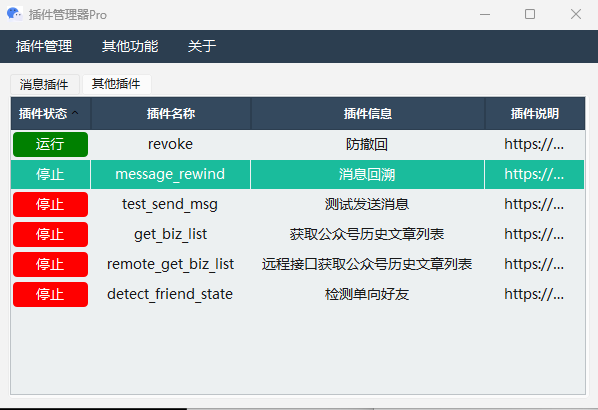
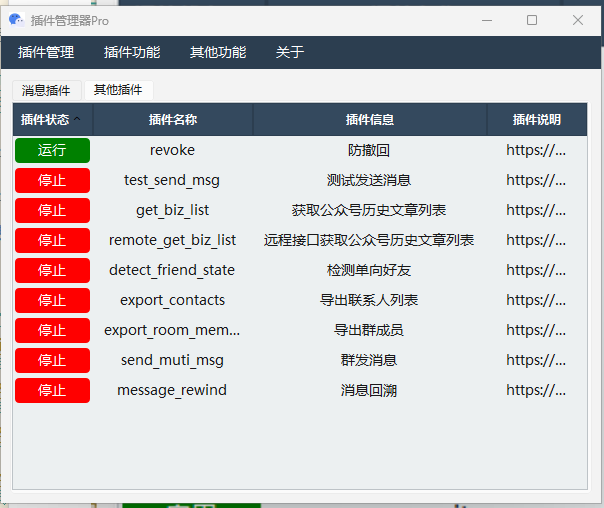
更新README

diff --git a/README.md b/README.md
@@ -1,6 +1,8 @@
 ## 项目介绍
 
-这个是之前pywxrobot的更新维护版(目前已有的插件都是免费使用，未来某些新增的插件可能会收费)，不再使用aardio，而是使用pyside6做界面，可以更好的加载python脚本。
+这个是之前pywxrobot的更新维护版(目前有两个版本：免费版和pro版,区别只是插件不一样)，不再使用aardio，而是使用pyside6做界面，可以更好的加载python脚本。
+
+如果有需要采集公众号历史/搜一搜/视频号等数据可以看收费的接口: https://v2i7lj8pzi.apifox.cn
 
 #### 下载地址
 
@@ -25,21 +27,24 @@
 - [x] [关键词自动回复](https://mp.weixin.qq.com/s/oJ8COdZiKJSG0_hrVtOqqA)
 - [x] [带撤回提示的防撤回](https://mp.weixin.qq.com/s/y8bV-AFSpVOYZC5N8ElpcA)
 - [x] [公众号历史文章采集](https://mp.weixin.qq.com/s/JiaIxZ6yWGVraV_vYLkoDA)
+- [x] 检测单个好友
 
 以下是收费插件
 
 - [x] [v免签监控端](https://mp.weixin.qq.com/s/cK71s92cUAtYeJKZ_5yzIw)
 - [x] [公众号历史远程接口](https://mp.weixin.qq.com/s/AfB-riuJu59f4bmpJW07xg)
+- [x] [批量检测单向好友](https://mp.weixin.qq.com/s/hVoCH9A1s-xmWHU-CydwJQ)
+- [x] 群消息关键词预警
+- [x] 进群提示语
+- [x] 导出联系人列表(好友、群和公众号)
+- [x] 导出群成员列表
+
 
 以下是待更新插件
 
-- [ ] 进群提示
-- [ ] 单向好友检测
 - [ ] 对接知识库做智能客服
 - [ ] 对接腾讯元宝AI
 - [ ] 用AI总结最近的群聊天消息，告诉我有没有我关心的内容
-- [ ] 群聊关键词监控
-- [ ] v免签监控端
 - [ ] 还没想到
 
 ## 使用介绍
@@ -54,60 +59,3 @@
 1. 先启动并登录上面下载的`3.9.12.37`版本微信
 2. 然后打开软件按提示操作
 
-## 插件介绍
-
-#### 监听公众号推送
-
-![](image/2.png)
-
-配置需要保存的方式，当公众号发文时就会推送到对应的配置。
-
-具体介绍请看: https://mp.weixin.qq.com/s/YEG0DrQjVqBjeXvKnNqlAw
-
-如果还需要采集公众号历史/搜一搜/视频号等数据可以看收费的接口: https://v2i7lj8pzi.apifox.cn
-
-#### 公众号历史采集
-
-![](image/7.png)
-
-具体介绍请看：https://mp.weixin.qq.com/s/JiaIxZ6yWGVraV_vYLkoDA
-
-#### 自动同意好友请求
-
-![](image/3.png)
-
-- 是否发送问候语：如果对方请求没有携带任何消息，会将下面的回复问候语发送给他
-- 是否分类标签：根据他的好友申请携带的内容讲他归类到某个标签下，例如他发的视频号群就把他打上视频号群的标签
-- 是否消息免打扰：同意好友请求后消息免打扰
-- 是否仅同意关键词：只有命中下面的关键词规则才会自动同意好友的请求，不然会回复问候语(如果设置)
-- 朋友圈权限: 不让他看 1 不看他 2 不让他看|不看他 3 仅聊天 8 
-
-具体介绍请看：https://mp.weixin.qq.com/s/Ky62rpaw-T72O6gL3M8Zrw
-
-#### 关键词自动邀请进群
-
-![](image/4.png)
-
-全匹配是指发送的文字要跟设置的规则一模一样，也就是==。不勾选则是半匹配，只需要发送的文章里包含设置的规则即可。
-
-键是群名称，可以通过下拉框选择，值是要设置的规则，用英文逗号隔开
-
-具体介绍请看：https://mp.weixin.qq.com/s/Ky62rpaw-T72O6gL3M8Zrw
-
-#### 自动下载文件
-
-![](image/5.png)
-
-勾选就会全部下载，后面会弄个选项过滤掉一些群聊
-
-具体介绍请看：https://mp.weixin.qq.com/s/mZvxw1rTzjPzgcRPETtS_w
-
-#### 防撤回
-
-具体请看：https://mp.weixin.qq.com/s/y8bV-AFSpVOYZC5N8ElpcA
-
-#### 关键词自动回复
-
-![](image/6.png)
-
-具体介绍请看：https://mp.weixin.qq.com/s/oJ8COdZiKJSG0_hrVtOqqA
